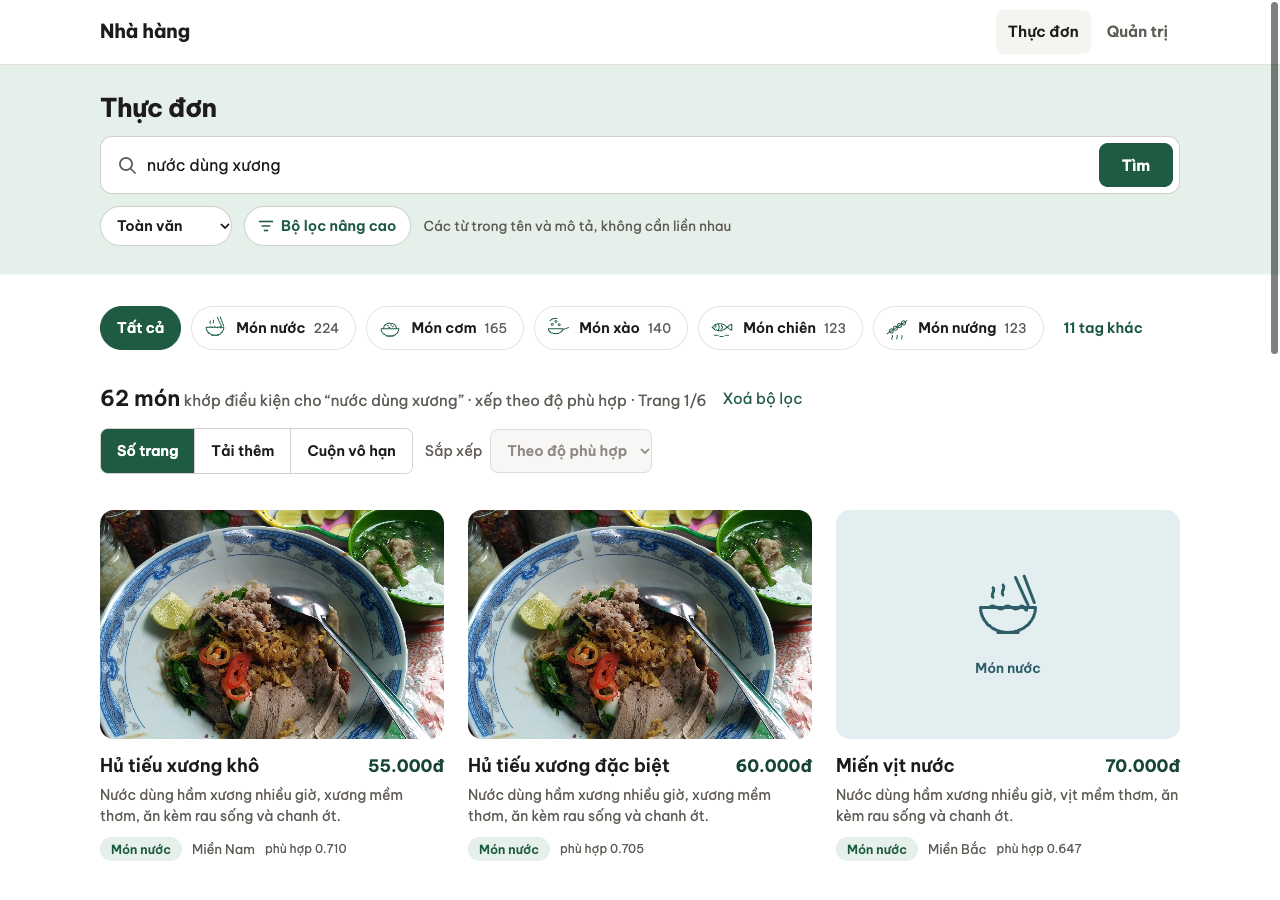
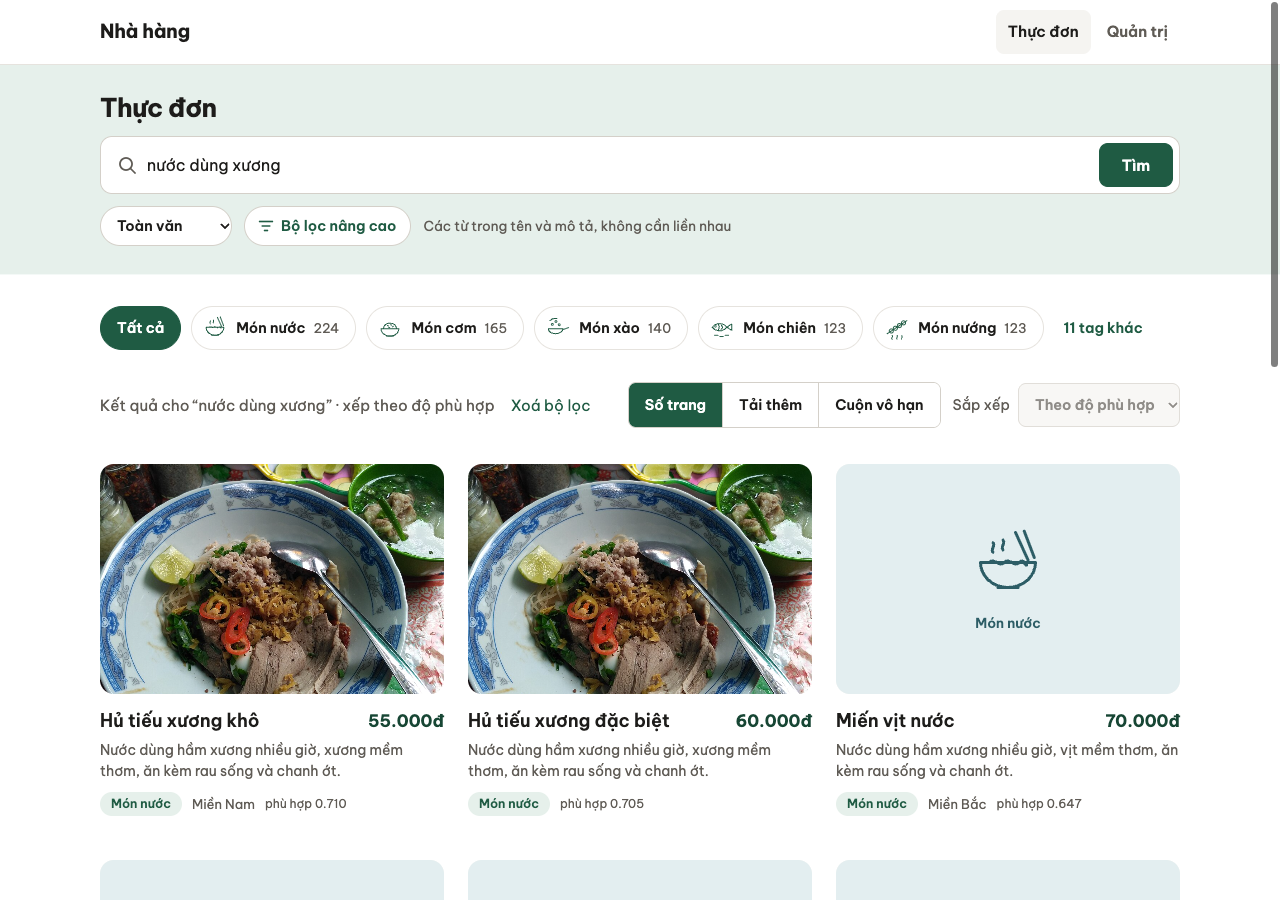
web: bỏ dòng đếm ở trang khách (1.200 món, Trang x/y, Món a–b trong N, Đã hiện N/total), slogan "Ăn một bữa, đi trọn ba miền" + giới thiệu mới, chân trang gọn; tài liệu và 11 ảnh evidence theo giao diện mới

Changed region(s): [[0.0625, 0.4044, 0.9375, 1.0], [0.75, 0.4356, 0.9062, 0.4667], [0.6562, 0.4356, 0.7188, 0.4667]]

diff --git a/web/src/pages/dishes/DishListPage.jsx b/web/src/pages/dishes/DishListPage.jsx
@@ -34,11 +34,11 @@ export default function DishListPage() {
 // Đầu trang (có khung tìm) + thanh danh mục: dùng chung cho cả 3 cách hiển thị (plan mục 13).
 // Đầu trang đầy đủ chỉ ở trang 1 khi chưa có điều kiện; có từ khoá / bộ lọc / sắp xếp hoặc page ≥ 2 → thu gọn.
 // dishes, loading: danh sách đang hiện → ảnh ghép của đầu trang (13.d), không gọi thêm API.
-function MenuHead({ query, tagList, fieldErrors, onApply, total, dishes, loading }) {
+function MenuHead({ query, tagList, fieldErrors, onApply, dishes, loading }) {
   const full = !isFiltered(query) && (query.page === "" || query.page === "1");
   return (
     <>
-      <MenuHero full={full} total={total} dishes={dishes} loading={loading}>
+      <MenuHero full={full} dishes={dishes} loading={loading}>
         <SearchPanel query={query} tags={tagList} fieldErrors={fieldErrors} onApply={onApply} />
       </MenuHero>
       <CategoryBar tags={tagList} query={query} />
@@ -60,22 +60,20 @@ function useMenuBase() {
   return { query, searchParams, tagList, apply, clearUrl, needsQ };
 }
 
-// Thanh công cụ trên danh sách: dòng "N món khớp điều kiện cho “…”" + Xoá bộ lọc (bên trái);
-// công tắc cách hiển thị + ô sắp xếp (bên phải, 13.g). Dòng kết quả chỉ có số khi response đã về (total ≠ null).
+// Thanh công cụ trên danh sách: dòng kết quả + Xoá bộ lọc (bên trái); công tắc cách hiển thị + ô sắp xếp (bên phải, 13.g).
+// Trang khách không hiện số đếm (plan 13.4): chỉ khi đang tìm/lọc mới có dòng chữ "Kết quả cho “…”", và chỉ sau khi
+// response đã về (`total` ≠ null) — vùng role=status để trình đọc màn hình biết danh sách vừa đổi.
 // Ô sắp xếp áp dụng ngay trên bộ điều kiện ĐÃ ÁP DỤNG (URL), về trang 1; toàn văn / gần đúng xếp theo điểm → khoá ô.
-function MenuToolbar({ query, total, pageInfo, clearUrl, onApply, fieldErrors }) {
+function MenuToolbar({ query, total, clearUrl, onApply, fieldErrors }) {
   const viewHref = (v) => `/dishes${toQuery(toPageParams({ ...query, view: v, page: "" }))}`;
   const isText = TEXT_MODES.includes(query.mode);
   return (
     <div className="menu-toolbar">
       <div className="result-line" role="status" aria-live="polite">
-        {total !== null && (
+        {total !== null && isFiltered(query) && (
           <span>
-            <strong className="result-total">{total.toLocaleString("vi-VN")} món</strong>
-            {isFiltered(query) ? " khớp điều kiện" : ""}
-            {query.q && <> cho “{query.q}”</>}
+            {query.q ? <>Kết quả cho “{query.q}”</> : "Kết quả theo bộ lọc"}
             {isText && total > 0 && " · xếp theo độ phù hợp"}
-            {pageInfo && <span className="result-page"> · {pageInfo}</span>}
           </span>
         )}
         {isFiltered(query) && <Link to={clearUrl}>Xoá bộ lọc</Link>}
@@ -150,7 +148,7 @@ function AppendMenu({ infinite }) {
 
   return (
     <>
-      <MenuHead query={query} tagList={tagList} fieldErrors={fieldErrors} onApply={apply} total={list.total} dishes={list.items} loading={firstLoad && list.pending} />
+      <MenuHead query={query} tagList={tagList} fieldErrors={fieldErrors} onApply={apply} dishes={list.items} loading={firstLoad && list.pending} />
       <MenuToolbar query={query} total={list.total} clearUrl={clearUrl} onApply={apply} fieldErrors={fieldErrors} />
       {invalid && <InvalidQuery fields={list.error.fields} resetTo={clearUrl} resetLabel="Xoá bộ lọc" />}
       {!invalid && firstLoad && list.pending && <SkeletonList />}
@@ -163,7 +161,7 @@ function AppendMenu({ infinite }) {
             <>
               <DishGrid dishes={list.items} appearFrom={PAGE_SIZE} />
               {infinite && <InfiniteSentinel onVisible={list.loadNext} disabled={list.end || Boolean(list.error)} itemCount={list.items.length} />}
-              <LoadMore pending={list.pending} end={list.end} error={list.error} shown={list.items.length} total={list.total} onLoad={list.loadNext} />
+              <LoadMore pending={list.pending} end={list.end} error={list.error} onLoad={list.loadNext} />
             </>
           )}
         </>
@@ -193,12 +191,12 @@ function PagedMenu() {
 
   return (
     <>
-      <MenuHead query={query} tagList={tagList} fieldErrors={fieldErrors} onApply={apply} total={data?.total ?? null} dishes={dishes} loading={list.status === "loading"} />
+      <MenuHead query={query} tagList={tagList} fieldErrors={fieldErrors} onApply={apply} dishes={dishes} loading={list.status === "loading"} />
 
       <div ref={listTopRef} className="list-anchor" tabIndex={-1}>
         <span className="sr-only">Danh sách món, trang {query.page || 1}</span>
       </div>
-      <MenuToolbar query={query} total={data?.total ?? null} pageInfo={data && dishes.length > 0 ? `Trang ${data.page}/${totalPages}` : null} clearUrl={clearUrl} onApply={apply} fieldErrors={fieldErrors} />
+      <MenuToolbar query={query} total={data?.total ?? null} clearUrl={clearUrl} onApply={apply} fieldErrors={fieldErrors} />
       {list.status === "loading" && <SkeletonList />}
       {invalid && <InvalidQuery fields={list.error.fields} resetTo={clearUrl} resetLabel="Xoá bộ lọc" />}
       {list.status === "error" && !invalid && <LoadError onRetry={list.reload} />}
@@ -215,9 +213,6 @@ function PagedMenu() {
           ) : (
             <>
               <DishGrid dishes={dishes} />
-              <p className="muted page-summary">
-                Món {(data.page - 1) * data.pageSize + 1}–{(data.page - 1) * data.pageSize + dishes.length} trong {data.total} món
-              </p>
               <Pagination page={data.page} totalPages={totalPages} hrefFor={hrefFor} label="Phân trang thực đơn" />
             </>
           )}

diff --git a/web/src/components/MenuHero.jsx b/web/src/components/MenuHero.jsx
@@ -6,7 +6,7 @@ import DishImage from "./DishImage.jsx";
 // - còn lại (đang tìm / lọc / sắp xếp, hoặc page ≥ 2) → thu gọn: tiêu đề nhỏ + khung tìm, kết quả lên gần đầu màn hình.
 // Ảnh ghép lấy 3 món CÓ ẢNH đầu tiên trong chính danh sách vừa tải (13.d): không thêm request, không ghi cứng link ảnh.
 // Mỗi ảnh là link tới trang chi tiết, nơi có dòng ghi công ảnh (giấy phép CC).
-export default function MenuHero({ full, total, dishes, loading, children }) {
+export default function MenuHero({ full, dishes, loading, children }) {
   if (!full) {
     return (
       <section className="menu-hero compact" aria-labelledby="menu-title">
@@ -18,14 +18,14 @@ export default function MenuHero({ full, total, dishes, loading, children }) {
   return (
     <section className="menu-hero" aria-labelledby="menu-title">
       <div className="hero-text">
-        {/* total chỉ có sau khi danh sách tải xong (13.e: không gọi thêm API chỉ để đếm). */}
-        <p className="hero-eyebrow">Thực đơn{total !== null && ` · ${total.toLocaleString("vi-VN")} món`}</p>
+        {/* Trang khách không hiện số đếm (plan 13.4). Lời giới thiệu chỉ nhắc món có thật trong thực đơn (seed). */}
+        <p className="hero-eyebrow">Thực đơn</p>
         <h1 id="menu-title">
-          Món Việt ba miền,
+          Ăn một bữa,
           <br />
-          nấu mới mỗi ngày
+          đi trọn ba miền
         </h1>
-        <p className="hero-lead">Phở, bún, cơm, lẩu và đồ uống. Tìm theo tên món, lọc theo loại, khoảng giá hoặc tình trạng.</p>
+        <p className="hero-lead">Bún chả Hà Nội khói than hoa, mì Quảng vàng ươm bánh tráng nướng, cá kho tộ đậm đà miền Tây — mỗi món là một vùng đất trên bàn ăn của bạn.</p>
         {children}
       </div>
       <HeroPhotos dishes={dishes} loading={loading} />

diff --git a/web/src/components/LoadMore.jsx b/web/src/components/LoadMore.jsx
@@ -3,11 +3,12 @@ import { generalMessage } from "./FormBits.jsx";
 // Cuối danh sách nối thêm (Tải thêm / Cuộn vô hạn): nút "Tải thêm", trạng thái đang tải, hết dữ liệu, lỗi + Thử lại.
 // Ở chế độ cuộn vô hạn nút vẫn hiện làm lối dự phòng (bàn phím, trình đọc màn hình, khi muốn tới footer).
 // Đang tải thì khoá nút; loadNext() cũng tự chặn gửi trùng (useAppendList), nút khoá chỉ để người dùng thấy.
-export default function LoadMore({ pending, end, error, shown, total, onLoad }) {
+// Trang khách không hiện số đếm (plan 13.4): bỏ "Đã hiện N/total món"; hết danh sách ghi một câu không số.
+export default function LoadMore({ pending, end, error, onLoad }) {
   if (end) {
     return (
       <p className="load-end muted" role="status">
-        Đã hiện hết {total} món.
+        Bạn đã xem hết danh sách.
       </p>
     );
   }
@@ -22,11 +23,6 @@ export default function LoadMore({ pending, end, error, shown, total, onLoad }) 
         {pending && <span className="spinner" aria-hidden="true" />}
         {pending ? "Đang tải thêm…" : error ? "Thử lại" : "Tải thêm"}
       </button>
-      {total !== null && (
-        <span className="muted load-count" role="status" aria-live="polite">
-          Đã hiện {shown}/{total} món
-        </span>
-      )}
     </div>
   );
 }

diff --git a/web/src/styles/style.css b/web/src/styles/style.css
@@ -360,7 +360,6 @@ a.tag-chip:hover { border-color: var(--primary); color: var(--primary); text-dec
 /* Cuối danh sách nối thêm. */
 .load-more { display: grid; justify-items: center; gap: 10px; margin: 24px 0 8px; }
 .load-more .alert { margin: 0; }
-.load-count { font-size: .9rem; }
 .load-end { text-align: center; margin: 24px 0 8px; }
 .sentinel { height: 1px; }
 @media (max-width: 600px) {
@@ -526,8 +525,6 @@ a, .btn, .cat-pill, .cat-more, .filter-toggle, .page-num, .page-btn, .view-btn, 
 
 /* Thanh công cụ: kết quả (trái) + cách hiển thị và sắp xếp (phải). */
 .menu-toolbar { display: flex; flex-wrap: wrap; justify-content: space-between; align-items: center; gap: 12px 24px; padding: 28px 0 20px; }
-.result-total { font-size: 1.35rem; font-weight: 600; color: var(--text); }
-.result-page { font-size: .95rem; }
 .toolbar-tools { display: flex; flex-wrap: wrap; align-items: center; gap: 12px; }
 .sort-pick { display: inline-flex; align-items: center; gap: 8px; font-size: .9rem; color: var(--muted); }
 .sort-pick select { width: auto; font-weight: 600; font-size: .9rem; }
@@ -557,5 +554,4 @@ a, .btn, .cat-pill, .cat-more, .filter-toggle, .page-num, .page-btn, .view-btn, 
   .toolbar-tools .view-switch { flex: 1 1 100%; }
   .sort-pick { flex: 1 1 100%; }
   .sort-pick select { flex: 1 1 auto; }
-  .result-total { font-size: 1.15rem; }
 }

diff --git a/hotrotrinhbay.html b/hotrotrinhbay.html
@@ -234,7 +234,7 @@
     <thead><tr><th>Kiểu</th><th>Hành vi</th><th>URL</th><th>Mở lại link</th></tr></thead>
     <tbody>
       <tr><td>Số trang <code>view=pages</code></td><td>Bấm trang → request trang đó, <b>thay</b> danh sách; cuộn mượt về đầu danh sách, focus vào đó</td><td>Có <code>page</code></td><td>Đúng trang và điều kiện</td></tr>
-      <tr><td>Tải thêm <code>view=more</code></td><td>Bấm nút → request trang kế, <b>nối</b> vào; hết thì "Đã hiện hết N món"</td><td>Không có <code>page</code></td><td><b>Tải lại từ đầu</b>, giữ điều kiện</td></tr>
+      <tr><td>Tải thêm <code>view=more</code></td><td>Bấm nút → request trang kế, <b>nối</b> vào; hết thì "Bạn đã xem hết danh sách."</td><td>Không có <code>page</code></td><td><b>Tải lại từ đầu</b>, giữ điều kiện</td></tr>
       <tr><td>Cuộn vô hạn <code>view=scroll</code></td><td><code>IntersectionObserver</code> thấy phần tử canh cuối danh sách → nối trang kế; vẫn có nút "Tải thêm" dự phòng</td><td>Không có <code>page</code></td><td><b>Tải lại từ đầu</b>, giữ điều kiện</td></tr>
     </tbody>
   </table>

diff --git a/web/src/components/Layout.jsx b/web/src/components/Layout.jsx
@@ -33,7 +33,7 @@ export default function Layout() {
       {!isAdmin && (
         <footer className="site-footer">
           <div className="container">
-            <span>Nhà hàng · Giao diện SPA, dữ liệu đọc từ REST API ở mỗi lần mở trang.</span>
+            <span>© 2026 Nhà hàng · Món Việt ba miền</span>
           </div>
         </footer>
       )}

diff --git a/BUILD_LOG.md b/BUILD_LOG.md
@@ -763,3 +763,49 @@ Phương án bỏ:
 - 375px giả lập: `scrollWidth` = 375 cho cả 2 trang; mọi phần tử vượt khung đều nằm trong `pre` / `.table-wrap` (vùng tự cuộn); 3 + 7 khối `pre` vừa khung.
 - Iframe 375px qua HTTP: `scrollWidth` 375 = `clientWidth` cho cả 2 trang.
 - 1280px: không cuộn ngang, link mục lục đúng id.
+
+## Bước 27 — Bỏ dòng đếm ở trang khách, slogan và chân trang mới (plan 13.4)
+**Yêu cầu của nhóm:** các dòng như "1200 món", "Món 1–12 trong 1200 món", chân trang "Giao diện SPA, dữ liệu đọc từ REST API…" thừa khi triển khai thật; slogan / giới thiệu quá thô. Nhóm hỏi 12 món/trang có đúng đề không.
+
+**Trả lời về 12 món/trang:** đúng đề.
+- Đề không quy định `pageSize`; ví dụ `pageSize=10` có ghi chú "các giá trị 1, 10 và 100 là cấu hình giả định… nhóm tự công bố kích thước trang và giới hạn phù hợp".
+- Plan 10.12 công bố thực đơn 12, admin 20, tối đa 100. 12 chia hết cho 1/2/3 cột → lưới luôn đầy hàng.
+- Đề chỉ bắt API trả `total`, không bắt giao diện hiện số.
+
+**Nhóm chốt:**
+- bỏ mọi số đếm ở trang khách (kể cả khi tìm/lọc);
+- chân trang "© 2026 Nhà hàng · Món Việt ba miền";
+- slogan "Ăn một bữa, đi trọn ba miền";
+- admin giữ nguyên.
+
+**Đã làm:**
+- `MenuHero`: dòng nhỏ chỉ còn "Thực đơn" (bỏ "· 1.200 món", bỏ prop `total`); slogan + giới thiệu mới, chỉ nhắc món có thật trong seed (Bún chả Hà Nội — "chả nướng than hoa", Mì Quảng — "bánh tráng nướng", Cá kho tộ).
+- `DishListPage`:
+  - thanh công cụ không còn số: chưa tìm/lọc thì trống; có thì "Kết quả cho “q”" / "Kết quả theo bộ lọc" (+ "· xếp theo độ phù hợp") + Xoá bộ lọc, vẫn là vùng `role=status`;
+  - bỏ "Trang x/y" ở dòng kết quả và dòng "Món a–b trong N món" dưới lưới.
+- `LoadMore`: bỏ "Đã hiện N/total món"; hết danh sách → "Bạn đã xem hết danh sách."
+- `Layout`: chân trang mới. CSS: xoá `.result-total`, `.result-page`, `.load-count`.
+- **Giữ có chủ ý** (ghi trong plan 13.4):
+  - số món trên nút danh mục (13.c);
+  - điểm phù hợp ở toàn văn / gần đúng;
+  - "Trang N không có món nào" khi URL vượt phạm vi;
+  - "Trang 1/100" của thanh phân trang rút gọn trên điện thoại (là điều hướng, không phải dòng đếm);
+  - dòng đếm ở admin.
+- Tài liệu:
+  - `kichban.html`: các câu "Thấy được" không còn dựa vào dòng đếm — dùng tên món (id 13 Bánh xèo miền Tây, id 1200 Gà xào kim chi), số thẻ, Network `total`;
+  - `hotrotrinhbay.html`: câu hết danh sách;
+  - `evidence/screens/`: chụp lại 11 ảnh thực đơn; `evidence/README.md` ghi chú.
+
+**Đã kiểm tra** (Chrome headless, **14/14 đạt**):
+- `/dishes`:
+  - slogan, giới thiệu, chân trang mới;
+  - không còn chữ nào dạng "N món", "a/b", "trong N", "Trang N" ngoài nút danh mục / thanh phân trang / thẻ món;
+  - không còn `.page-summary`; dòng kết quả trống; thanh phân trang vẫn có.
+- Dòng kết quả theo điều kiện:
+  - `?q=phở` → "Kết quả cho “phở”" + Xoá bộ lọc;
+  - `?tag=9` → "Kết quả theo bộ lọc";
+  - toàn văn "cá kho tộ" → "… · xếp theo độ phù hợp", điểm vẫn hiện.
+- Tải thêm Lẩu tới hết → 61 thẻ + "Bạn đã xem hết danh sách."
+- Giữ có chủ ý: `?page=101` vẫn "Trang 101 không có món nào."; admin vẫn "Món 1–20 trong 1200 món".
+- 375px không cuộn ngang. Không lỗi console. `vite build` thành công.
+- Chạy lại gom id qua 3 kiểu UI (`mode=advanced&tag=12&sort=gia-tang`): **386/386** cả 3 kiểu (cách nhận biết hết danh sách đổi chữ nhưng vẫn là `.load-end`).

diff --git a/evidence/README.md b/evidence/README.md
@@ -1,6 +1,6 @@
 # Bằng chứng nộp — Block 7 (tìm kiếm và phân trang)
 
-Thu ngày 26/10/2026 trên dữ liệu seed chuẩn (`npx prisma db seed`, tất định), API :3000 và bản production của SPA (`vite build` + `vite preview` :5173). 11 ảnh thực đơn trong `screens/` (so-trang-1, so-trang-2, tai-them, cuon-vo-han, basic, basic-wildcard, advanced, fulltext, fuzzy, vuot-pham-vi, tham-so-sai) chụp lại ngày 29/10/2026 theo giao diện mới (plan mục 13), cùng URL và cùng kết quả; Network và SQL không đổi vì API không đổi. Phần admin (`sql-log/admin.txt`, `admin-dau-bep.txt`, `screens/admin.png`, `admin-dau-bep.png`) thu lại ngày 29/10/2026 sau khi bảng admin đổi sang id tăng dần và đầu bếp, nguyên liệu có số trang (plan mục 12), trên seed chuẩn, SPA chạy bằng `vite` dev. Thư mục này **không** chứa `.env`, chuỗi kết nối, host hay mật khẩu database. Log SQL chỉ có câu SQL và giá trị tham số (từ khoá, số trang).
+Thu ngày 26/10/2026 trên dữ liệu seed chuẩn (`npx prisma db seed`, tất định), API :3000 và bản production của SPA (`vite build` + `vite preview` :5173). 11 ảnh thực đơn trong `screens/` (so-trang-1, so-trang-2, tai-them, cuon-vo-han, basic, basic-wildcard, advanced, fulltext, fuzzy, vuot-pham-vi, tham-so-sai) chụp lại ngày 29/10/2026 theo giao diện mới (plan mục 13, và lần nữa sau khi bỏ dòng đếm ở trang khách — 13.4), cùng URL và cùng kết quả; số kết quả xem ở Network (`total`); Network và SQL không đổi vì API không đổi. Phần admin (`sql-log/admin.txt`, `admin-dau-bep.txt`, `screens/admin.png`, `admin-dau-bep.png`) thu lại ngày 29/10/2026 sau khi bảng admin đổi sang id tăng dần và đầu bếp, nguyên liệu có số trang (plan mục 12), trên seed chuẩn, SPA chạy bằng `vite` dev. Thư mục này **không** chứa `.env`, chuỗi kết nối, host hay mật khẩu database. Log SQL chỉ có câu SQL và giá trị tham số (từ khoá, số trang).
 
 ## Đối chiếu với yêu cầu của đề
 
